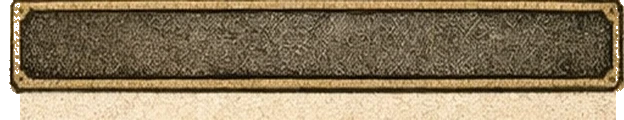
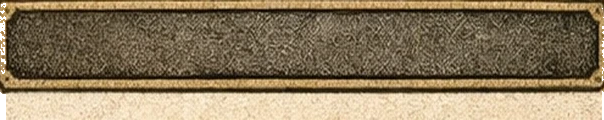
fix: crop transparent columns from button textures entirely
- Previous fix made edge pixels transparent but left the columns in place.
  The 9-slice still reserved space for them, showing as empty gap.
- Now physically cropped all transparent columns off. All 8 textures
  normalized to 604x120.
- 9-slice margins reduced to 14px all sides (tight to corner ornaments)

diff --git a/scripts/Utils/UIKit.cs b/scripts/Utils/UIKit.cs
@@ -253,11 +253,11 @@ public static class UIKit
         return new StyleBoxTexture
         {
             Texture = texture,
-            // 9-slice margins for button textures (624x120, cropped)
-            TextureMarginLeft   = 18,
-            TextureMarginRight  = 28,
-            TextureMarginTop    = 28,
-            TextureMarginBottom = 18,
+            // 9-slice margins for button textures (604x120, tightly cropped)
+            TextureMarginLeft   = 14,
+            TextureMarginRight  = 14,
+            TextureMarginTop    = 14,
+            TextureMarginBottom = 14,
             // Content margins (padding inside the button for text)
             ContentMarginLeft   = 20,
             ContentMarginRight  = 20,
